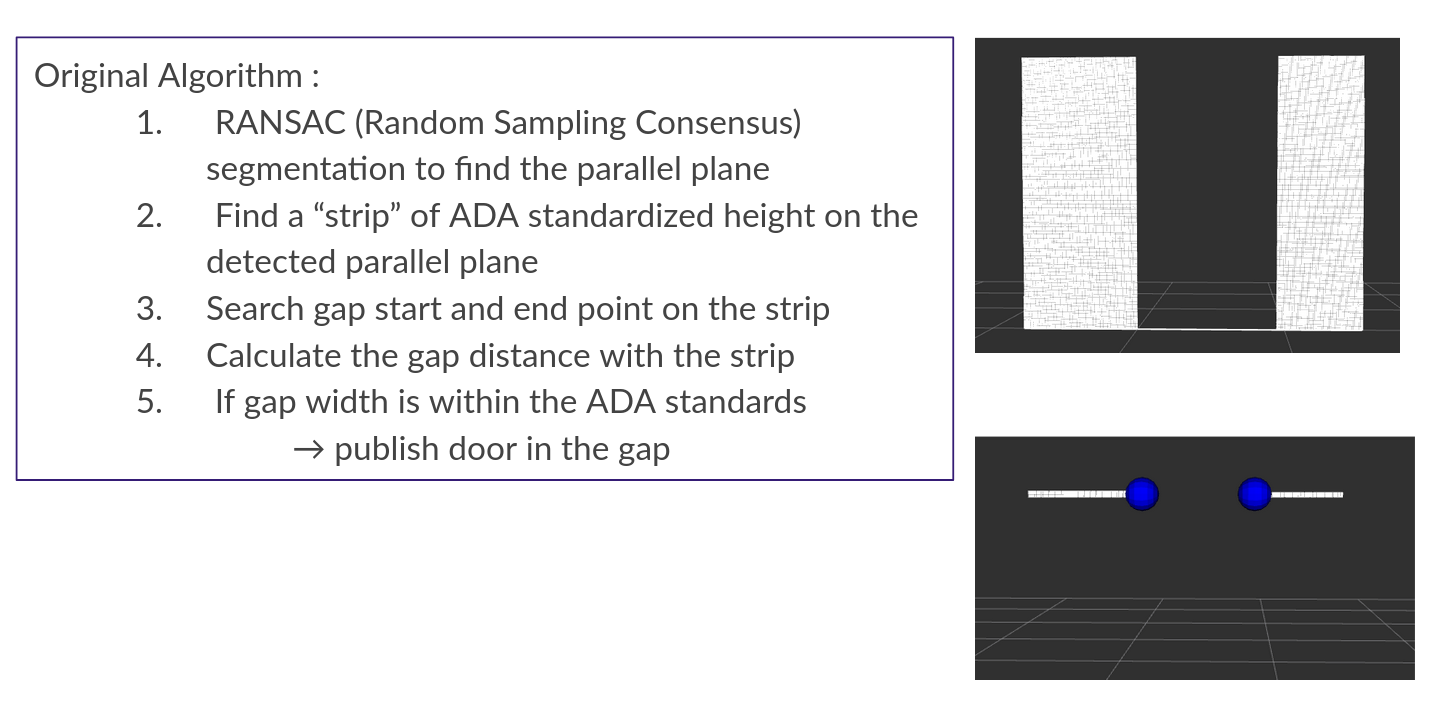
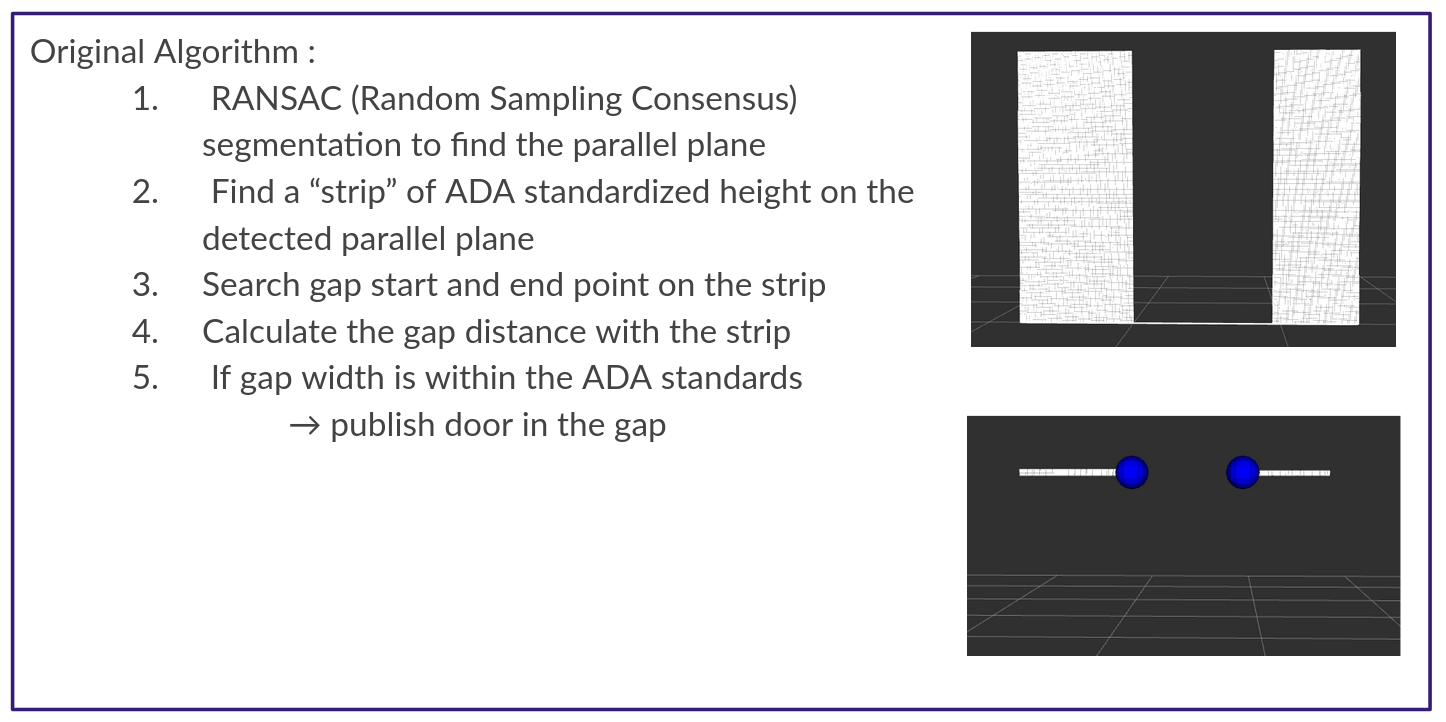
add original algorithm img

Changed region(s): [[0.0, 0.0, 1.0, 0.9972]]

diff --git a/_posts/2020-06-22-Doorway_detecting_algorithm.md b/_posts/2020-06-22-Doorway_detecting_algorithm.md
@@ -30,6 +30,11 @@ This projects demonstrate the two new algorithms which were implemented on the o
 
 <!-- <strong>bold text</strong>. -->
 
+<p align="middle"> <img src="https://github.com/luxi-huang/portfolio/blob/master/img/posts/doorway_detection/original_algorithm.png?raw=true" alt="drawing"/> </p>  
+
+*<center>Figure 1: green and black background whisker photo</center>*
+
+
  - Doorway detection’s original algorithm implements RANSAC (RANdom SAmpling Consensus) segmentation to fit a point cloud to a parallel plane model.On that plane all points which are at ADA standardized height(1m) stripe_height will be collected and be treated as a stripe.
    - The stripe (and plane) is a subset of the larger point cloud  
 
@@ -39,7 +44,7 @@ This projects demonstrate the two new algorithms which were implemented on the o
     - If the search finds neighbor points, they will be marked as the door_end point. 
 
 - Once the door_start and door_end points are found, the door gap width can be calculated (door gap width is defined as the distance between the door_start and door_end points). 
-    - If the door gap width is within ADA standards (the range from 32 inches to 48 inches), then this gap would be a door gap[1]   
+    - If the door gap width is within ADA standards (the range from 32 inches to 48 inches), then this gap would be a door gap[2].   
 
 
 

diff --git a/_posts/2020-09-12-Geometric_Parameter_Extraction.md b/_posts/2020-09-12-Geometric_Parameter_Extraction.md
@@ -21,7 +21,7 @@ Whiskers are important sensor for seal detecting vibrotactile information from t
  
 The whiskers images are in two kinds of background - green and black, as shown on figure 1 and figure 2. Rulers are placed next to whisker for the purpose of referencing the size of whiskers.  The goal of the project is to extract from seal whiskers parameters (as shown on table 1) from original image(figure 1). 
 
-<p align="middle"> <img src="https://github.com/luxi-huang/portfolio/blob/master/img/posts/Whisker/original_graph.png?raw=true" alt="drawing" height="400"/> </p>  
+<p align="middle"> <img src="https://github.com/luxi-huang/portfolio/blob/master/img/posts/Whisker/original_graph.png?raw=true" alt="drawing" height="600"/> </p>  
 
 *<center>Figure 1: green and black background whisker photo</center>*
 
